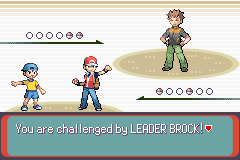
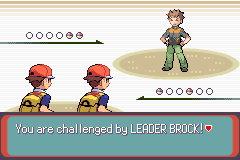
battle: use BATTLE_TYPE_COOP flag for intro sprite selection, not connState
connState can be reset to DISCONNECTED mid-battle by the heartbeat
disconnect injection (6s silence threshold) when the overworld loop
isn't running — e.g. during the party selection menu before the intro
renders. BATTLE_TYPE_COOP is set at battle start and stays set for
the entire battle, making it the correct check.

Replace all connState == MP_STATE_CONNECTED checks in the intro sprite
and palette paths with Multiplayer_IsCoopBattle(), which reads
BATTLE_TYPE_COOP from gBattleTypeFlags.

Update screenshot: now shows two Red back sprites vs Brock.

Changed region(s): [[0.2917, 0.3438, 0.4667, 0.7188], [0.0292, 0.375, 0.2333, 0.7188]]

diff --git a/src/battle_controller_player_partner.c b/src/battle_controller_player_partner.c
@@ -235,7 +235,7 @@ static void PlayerPartnerHandleDrawTrainerPic(enum BattlerId battler)
         xPos = 90;
         yPos = (8 - gTrainerBacksprites[trainerPicId].coordinates.size) * 4 + 80;
     }
-    else if (gMultiplayerState.connState == MP_STATE_CONNECTED)
+    else if (Multiplayer_IsCoopBattle())
     {
         trainerPicId = gMultiplayerState.partnerGender + TRAINER_BACK_PIC_PLAYER_MALE;
         xPos = 90;
@@ -261,7 +261,7 @@ static void PlayerPartnerHandleDrawTrainerPic(enum BattlerId battler)
     }
 
     // Use back pic for co-op, Steven, or any custom partner; front pic for frontier tag battles.
-    if (gMultiplayerState.connState == MP_STATE_CONNECTED || gPartnerTrainerId > TRAINER_PARTNER(PARTNER_NONE))
+    if (Multiplayer_IsCoopBattle() || gPartnerTrainerId > TRAINER_PARTNER(PARTNER_NONE))
         isFrontPic = FALSE;
     else
         isFrontPic = TRUE;
@@ -420,7 +420,7 @@ static void PlayerPartnerHandleIntroTrainerBallThrow(enum BattlerId battler)
     const u16 *trainerPal;
     enum DifficultyLevel difficulty = GetBattlePartnerDifficultyLevel(gPartnerTrainerId);
 
-    if (gMultiplayerState.connState == MP_STATE_CONNECTED)
+    if (Multiplayer_IsCoopBattle())
         trainerPal = gTrainerBacksprites[gMultiplayerState.partnerGender + TRAINER_BACK_PIC_PLAYER_MALE].palette.data;
     else if (gPartnerTrainerId > TRAINER_PARTNER(PARTNER_NONE))
         trainerPal = gTrainerBacksprites[gBattlePartners[difficulty][gPartnerTrainerId - TRAINER_PARTNER(PARTNER_NONE)].trainerBackPic].palette.data;

diff --git a/src/battle_controller_player.c b/src/battle_controller_player.c
@@ -1948,7 +1948,7 @@ static void PlayerHandleDrawTrainerPic(enum BattlerId battler)
                 xPos = 32;
 
             if (gBattleTypeFlags & BATTLE_TYPE_INGAME_PARTNER && gPartnerTrainerId < TRAINER_PARTNER(PARTNER_NONE)
-                && gMultiplayerState.connState != MP_STATE_CONNECTED)
+                && !Multiplayer_IsCoopBattle())
             {
                 xPos = 90;
                 yPos = 80;
@@ -1967,7 +1967,7 @@ static void PlayerHandleDrawTrainerPic(enum BattlerId battler)
 
     // Use front pic for frontier tag battles; back pic for co-op network battles and Steven/custom partners.
     if (gBattleTypeFlags & BATTLE_TYPE_INGAME_PARTNER && gPartnerTrainerId < TRAINER_PARTNER(PARTNER_NONE)
-        && gMultiplayerState.connState != MP_STATE_CONNECTED)
+        && !Multiplayer_IsCoopBattle())
     {
         trainerPicId = PlayerGenderToFrontTrainerPicId(gSaveBlock2Ptr->playerGender);
         isFrontPic = TRUE;
